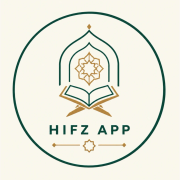
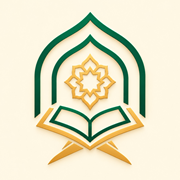
Ask before installing updates and show the app version
- Installed copies show "This app needs an update." when a new build is
  ready. Update applies it and reloads. Nothing stored on the device or on
  the server is cleared.
- Show the version under the app name on the splash and welcome screens and
  in the sidebar.
- Use the new logo for the app icon, with a padded maskable variant.
- Bump the app version to 2.1.0 (new features since 2.0.0).

diff --git a/client/vite.config.ts b/client/vite.config.ts
@@ -2,12 +2,23 @@ import { defineConfig } from 'vite';
 import react from '@vitejs/plugin-react';
 import { VitePWA } from 'vite-plugin-pwa';
 import path from 'path';
+import { readFileSync } from 'fs';
+
+// The version shown in the app comes from client/package.json.
+const { version } = JSON.parse(readFileSync(path.resolve(__dirname, 'package.json'), 'utf-8'));
 
 export default defineConfig({
+  define: {
+    __APP_VERSION__: JSON.stringify(version),
+  },
   plugins: [
     react(),
     VitePWA({
-      registerType: 'autoUpdate',
+      // Updates wait for the user to tap Update instead of applying on their own.
+      registerType: 'prompt',
+      // The app registers its service worker itself (see UpdatePrompt), so the
+      // plugin must not inject a second registration.
+      injectRegister: null,
       includeAssets: ['favicon.ico', 'apple-touch-icon.png'],
       manifest: {
         name: 'The Hifz App',
@@ -21,18 +32,15 @@ export default defineConfig({
         icons: [
           { src: 'pwa-192x192.png', sizes: '192x192', type: 'image/png' },
           { src: 'pwa-512x512.png', sizes: '512x512', type: 'image/png' },
-          { src: 'pwa-512x512.png', sizes: '512x512', type: 'image/png', purpose: 'any maskable' },
+          { src: 'pwa-maskable-512x512.png', sizes: '512x512', type: 'image/png', purpose: 'maskable' },
         ],
       },
       workbox: {
         globPatterns: ['**/*.{js,css,html,ico,png,svg,woff2}'],
         navigateFallback: '/index.html',
         navigateFallbackDenylist: [/^\/api\//],
-        // Take over as soon as a new build is fetched. Without these a fresh
-        // service worker sits in "waiting" until every tab of the app is
-        // closed, so a deploy keeps serving the previous bundle and a plain
-        // reload appears to do nothing.
-        skipWaiting: true,
+        // skipWaiting stays off: a new build waits until the user taps Update
+        // (see UpdatePrompt). clientsClaim then hands the open page to it at once.
         clientsClaim: true,
         // Drop caches from previous builds instead of leaving them to
         // accumulate and potentially be served.

diff --git a/client/src/components/UpdatePrompt.tsx b/client/src/components/UpdatePrompt.tsx
@@ -1,0 +1,50 @@
+import { useEffect } from 'react';
+import toast from 'react-hot-toast';
+import { useRegisterSW } from 'virtual:pwa-register/react';
+
+// An open app looks for a new build this often, on top of the check it makes
+// each time it starts.
+const UPDATE_CHECK_MS = 60 * 60 * 1000;
+
+/**
+ * Tells the user when a newer build is waiting and applies it when they tap
+ * Update. Applying an update swaps the app's code and reloads the page. Nothing
+ * stored on the device or on the server is cleared.
+ */
+export default function UpdatePrompt() {
+  const { needRefresh: [needRefresh], updateServiceWorker } = useRegisterSW({
+    onRegisteredSW(_swUrl, registration) {
+      if (registration) setInterval(() => registration.update(), UPDATE_CHECK_MS);
+    },
+  });
+
+  useEffect(() => {
+    if (!needRefresh) return;
+    toast(
+      (t) => (
+        <div className="flex items-center gap-3">
+          <span>This app needs an update.</span>
+          <button
+            type="button"
+            onClick={() => toast.dismiss(t.id)}
+            className="text-sm font-medium"
+            style={{ color: 'var(--c-text-muted)' }}
+          >
+            Later
+          </button>
+          <button
+            type="button"
+            onClick={() => updateServiceWorker(true)}
+            className="rounded-lg px-3 py-1.5 text-sm font-semibold text-white"
+            style={{ backgroundColor: '#0F4C3A' }}
+          >
+            Update
+          </button>
+        </div>
+      ),
+      { id: 'app-update', duration: Infinity },
+    );
+  }, [needRefresh, updateServiceWorker]);
+
+  return null;
+}

diff --git a/client/src/pages/WelcomeScreen.tsx b/client/src/pages/WelcomeScreen.tsx
@@ -225,7 +225,10 @@ export default function WelcomeScreen() {
             </div>
             <p className="font-amiri leading-none animate-fade-in-up" style={{ color: '#B8862A', fontSize: 72, textShadow: '0 1px 0 rgba(184,134,42,0.15)', marginTop: -4 }} lang="ar">حفظ</p>
             <div className="animate-fade-in-up-delay"><GoldDivider /></div>
-            <h1 className="font-inter font-bold tracking-[0.22em] uppercase text-sm animate-fade-in-up-delay" style={{ color: '#0F4C3A' }}>The Hifz App</h1>
+            <div className="flex flex-col items-center gap-1 animate-fade-in-up-delay">
+              <h1 className="font-inter font-bold tracking-[0.22em] uppercase text-sm" style={{ color: '#0F4C3A' }}>The Hifz App</h1>
+              <p className="text-[11px] tracking-wide" style={{ color: 'rgba(15,76,58,0.45)' }}>Version {__APP_VERSION__}</p>
+            </div>
             <p className="text-sm leading-relaxed animate-fade-in-up-delay2 max-w-xs" style={{ color: 'rgba(15,76,58,0.55)' }}>
               Track your daily Sabaq, Sabaq Para & Dawr — memorise the Qur'an together with your Ustadh.
             </p>

diff --git a/client/src/App.tsx b/client/src/App.tsx
@@ -8,6 +8,7 @@ import ErrorBoundary from './components/ErrorBoundary';
 import GlobalBottomNav from './components/GlobalBottomNav';
 import TourModal from './components/TourModal';
 import Spinner from './components/Spinner';
+import UpdatePrompt from './components/UpdatePrompt';
 
 /* ── Lazy-loaded pages ───────────────────────────────────── */
 const SplashScreen     = lazy(() => import('./pages/SplashScreen'));
@@ -200,6 +201,7 @@ export default function App() {
           <AuthProvider>
             <AppRoutes />
             <ThemedToaster />
+            <UpdatePrompt />
           </AuthProvider>
         </BrowserRouter>
       </ThemeProvider>

diff --git a/client/src/main.tsx b/client/src/main.tsx
@@ -3,16 +3,6 @@ import ReactDOM from 'react-dom/client';
 import App from './App';
 import './index.css';
 
-// A new service worker takes control without reloading the page, which would
-// leave the old code running. The first claim on a fresh visit does not count.
-if ('serviceWorker' in navigator) {
-  let controlled = !!navigator.serviceWorker.controller;
-  navigator.serviceWorker.addEventListener('controllerchange', () => {
-    if (controlled) window.location.reload();
-    controlled = true;
-  });
-}
-
 ReactDOM.createRoot(document.getElementById('root')!).render(
   <React.StrictMode>
     <App />

diff --git a/client/src/pages/SplashScreen.tsx b/client/src/pages/SplashScreen.tsx
@@ -111,6 +111,12 @@ export default function SplashScreen() {
           >
             The Hifz App
           </p>
+          <p
+            className="text-[11px] tracking-wide"
+            style={{ color: 'rgba(15,76,58,0.55)' }}
+          >
+            Version {__APP_VERSION__}
+          </p>
           <div className="flex items-center gap-2">
             <div style={{ width: 28, height: 1, backgroundColor: '#B8862A', opacity: 0.5 }} />
             <svg width="6" height="6" viewBox="0 0 6 6" aria-hidden="true">

diff --git a/client/src/components/GlobalBottomNav.tsx b/client/src/components/GlobalBottomNav.tsx
@@ -82,6 +82,9 @@ export default function GlobalBottomNav() {
           <p className="text-[9px] text-center font-semibold uppercase tracking-wider" style={{ color: 'var(--c-text-faint)' }}>
             The Hifz App
           </p>
+          <p className="text-[9px] text-center mt-1" style={{ color: 'var(--c-text-faint)' }}>
+            Version {__APP_VERSION__}
+          </p>
         </div>
       </aside>
 

diff --git a/client/src/vite-env.d.ts b/client/src/vite-env.d.ts
@@ -1,4 +1,5 @@
 /// <reference types="vite/client" />
+/// <reference types="vite-plugin-pwa/react" />
 
 interface ImportMetaEnv {
   /**
@@ -18,3 +19,6 @@ interface ImportMetaEnv {
 interface ImportMeta {
   readonly env: ImportMetaEnv;
 }
+
+/** The app version from client/package.json, defined in vite.config.ts. */
+declare const __APP_VERSION__: string;
